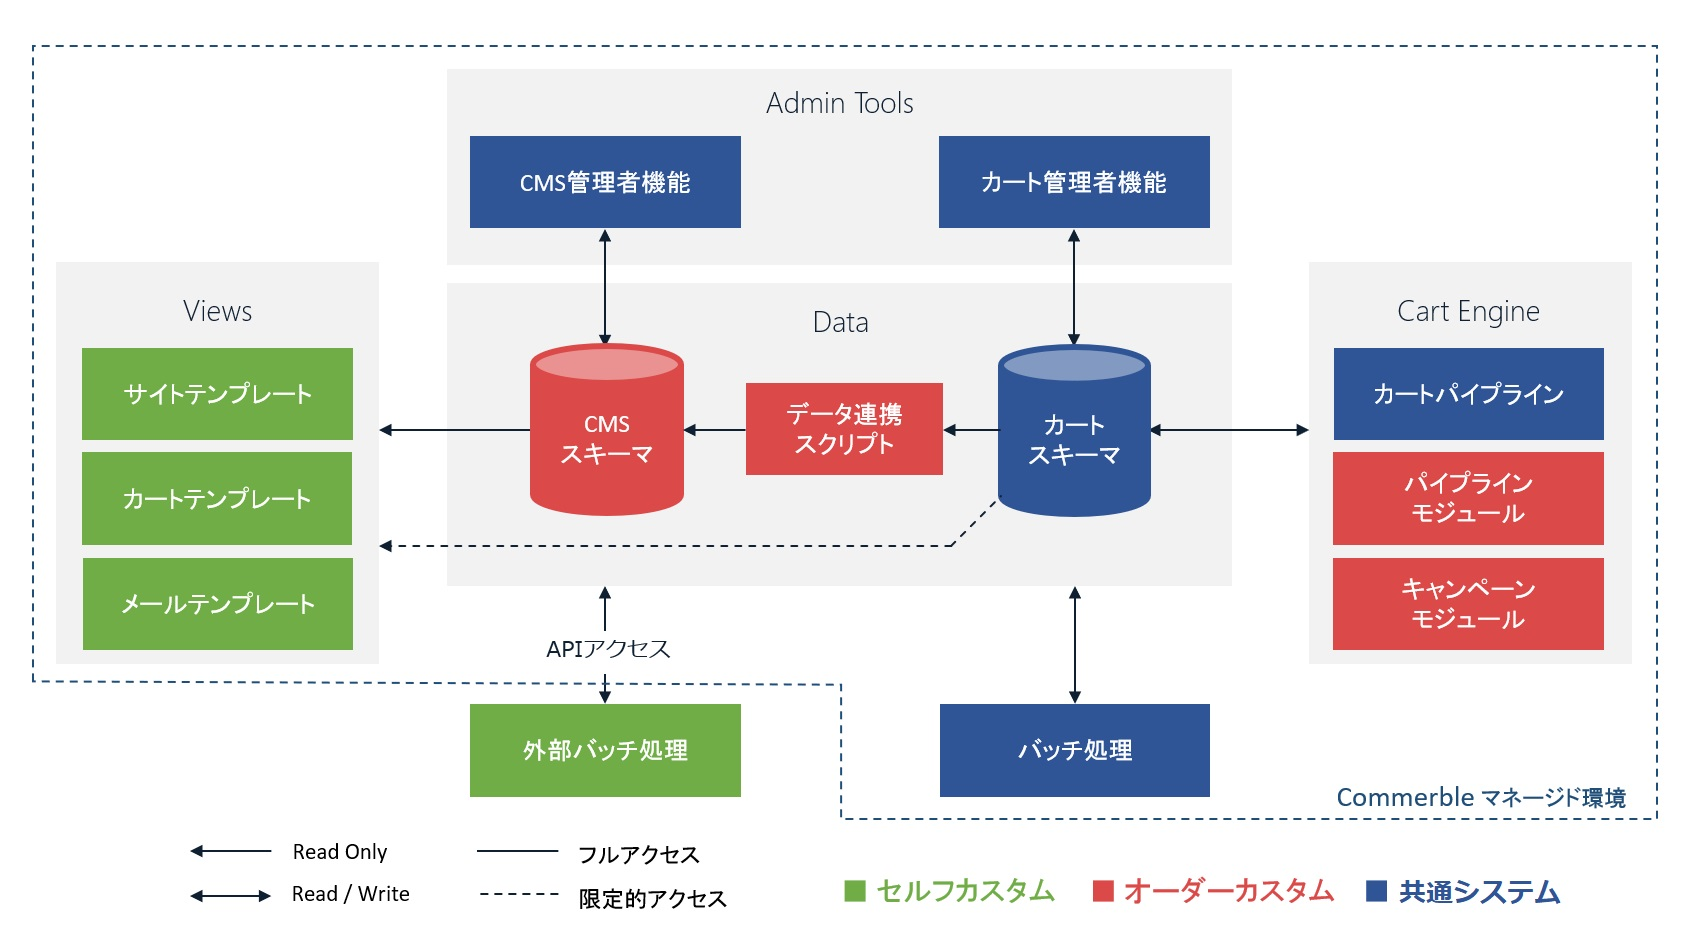
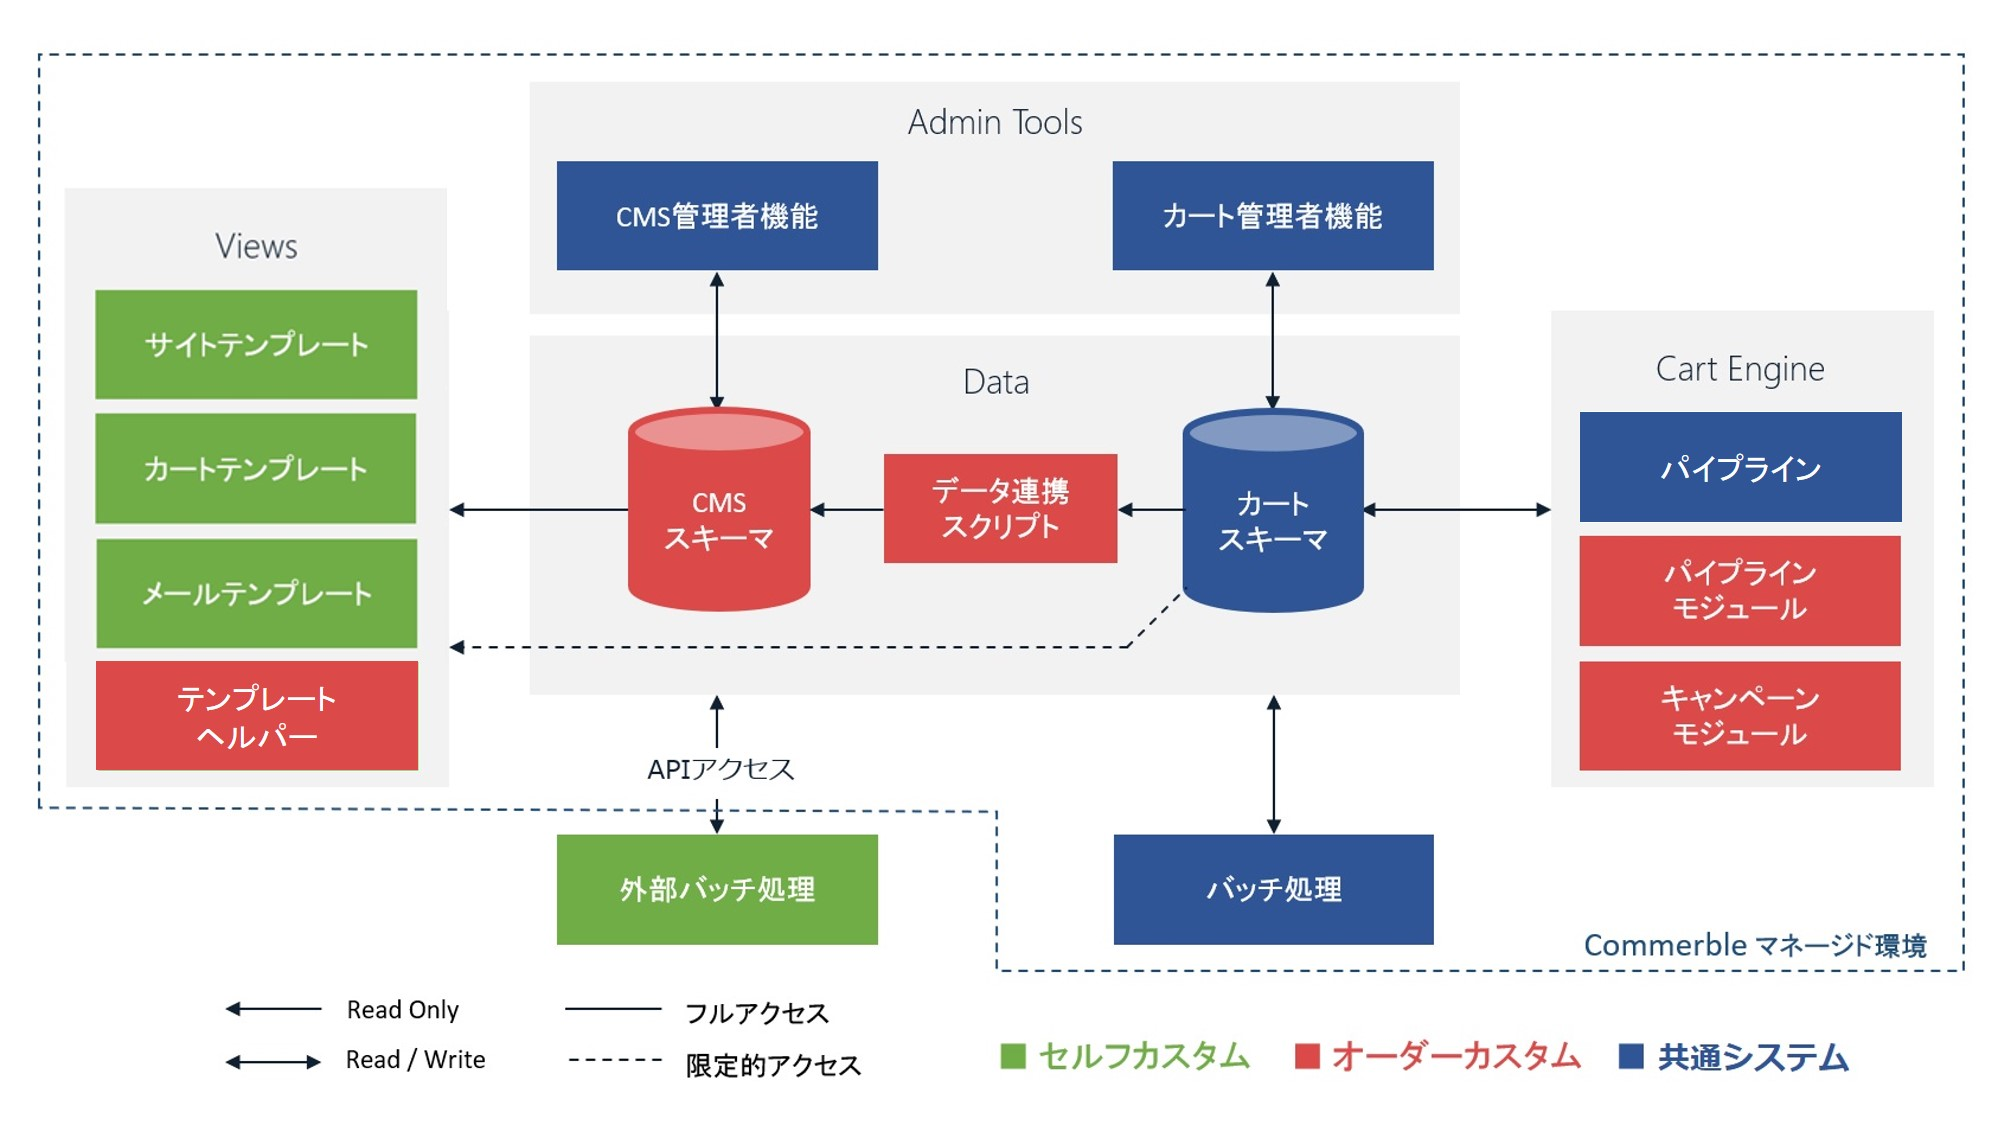
システム接続性ページと関連ページの空ページを追加

diff --git a/content/commerble/features/connectability.md b/content/commerble/features/connectability.md
@@ -5,9 +5,60 @@ description:
 ---
 
 # システム接続性
+この章ではCommerbleの接続性について説明します。
+
+Commerbleで外部システムと連携するために接続ポイントは以下の4つがあります。
+
+- WEB API
+- 受注イベント通知
+- カスタムパイプラインモジュール
+- カスタムテンプレートヘルパー
 
 ## Web API
 
+Commerbleには管理オペレーション用のWeb APIがあり、このAPIを利用して、基幹システムや倉庫システムと連携することができます。
+
+このAPIは管理用であり、カート処理用のWeb APIでは無いことに留意が必要です。
+
+つまりこれはJAMStackで構成されたECサイト(フロントサイト)から使用する購入APIとしては機能しないことを意味します。そのようなAPIが必要な場合は[カスタマイズ実績：カートのWeb API化]をご参照ください。
+
+
 ## 受注イベント通知
 
+Commerble上で受注が作成・更新された際に、外部システムへ作成・変更のあった受注IDを通知することができます。
+
+この通知は、通常[Azure Storage Queue]を介して通知いたしますので必要な際は別途Microsoft Azureの契約をお願いいたしております。
+
+HTTPリクエストやAMQPを用いた通知をご希望の場合は、カスタマイズで対応可能ですのでご相談ください。
+
+## カスタムパイプラインモジュール
+
+カスタムパイプラインモジュールを[オーダーカスタム] することで、受注処理時に外部システムと接続することができます。
+
+このカスタマイズにより、独自の決済APIや送料計算、ポイント連携を実現することができます。
+
+詳しくは、[カスタマイズ：パイプラインモジュール]をご参照ください。
+
+
+## カスタムテンプレートヘルパー
+
+テンプレート内で使用できるAPIを[オーダーカスタム] することで、テンプレート内で外部システムにアクセスすることができます。
+
+このカスタマイズにより、決済プロバイダ内に保存された登録カードの取得などを実現することができます。
+
+詳しくは、[カスタマイズ：テンプレートヘルパー]をご参照ください。
+
 ## 実績
+
+- [テナント独自の会員サイトと連携する](../../achievement/member-site/)
+- [基幹システムに受注連携する](../../achievement/oms/)
+- [基幹システムとポイント連携する](../../achievement/external-point/)
+- [商品登録バッチを作成する](../../achievement/pms/)
+- [カスタム商品管理画面を作成する](../../achievement/custom-admin/)
+- [送料計算外部システムと連携する](../../achievement/delivery-charge/)
+
+[カスタマイズ実績：カートのWeb API化]: ../../achievement/cartapi/ "カートのWeb API化"
+[Azure Storage Queue]: https://docs.microsoft.com/azure/storage/queues/storage-queues-introduction "Azure Storage Queue"
+[オーダーカスタム]: ../customization/#オーダーカスタム "オーダーカスタム"
+[カスタマイズ：パイプラインモジュール]: ../customization/#パイプラインモジュール "パイプラインモジュール"
+[カスタマイズ：テンプレートヘルパー]: ../customization/#テンプレートヘルパー "テンプレートヘルパー"

diff --git a/content/commerble/development/template-helper.md b/content/commerble/development/template-helper.md
@@ -1,0 +1,8 @@
+---
+title: "テンプレートヘルパー"
+weight: 1
+description: 
+---
+
+# テンプレートヘルパー
+

diff --git a/content/commerble/achievement/custom-admin.md b/content/commerble/achievement/custom-admin.md
@@ -1,0 +1,7 @@
+---
+title: "カスタム管理画面"
+weight: 6
+description: 
+---
+
+# カスタム管理画面

diff --git a/content/commerble/achievement/external-point.md b/content/commerble/achievement/external-point.md
@@ -1,0 +1,7 @@
+---
+title: "外部ポイント連携"
+weight: 6
+description: 
+---
+
+# 外部ポイント連携

diff --git a/content/commerble/achievement/oms.md b/content/commerble/achievement/oms.md
@@ -1,0 +1,7 @@
+---
+title: "受注システム連携"
+weight: 6
+description: 
+---
+
+# 受注システム連携

diff --git a/content/commerble/achievement/cartapi.md b/content/commerble/achievement/cartapi.md
@@ -1,0 +1,7 @@
+---
+title: "カートのWeb API化"
+weight: 7
+description: 
+---
+
+# カートのWeb API化

diff --git a/content/commerble/achievement/pms.md b/content/commerble/achievement/pms.md
@@ -1,0 +1,7 @@
+---
+title: "商品連携"
+weight: 6
+description: 
+---
+
+# 商品連携
